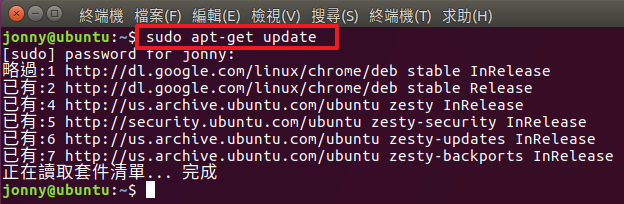
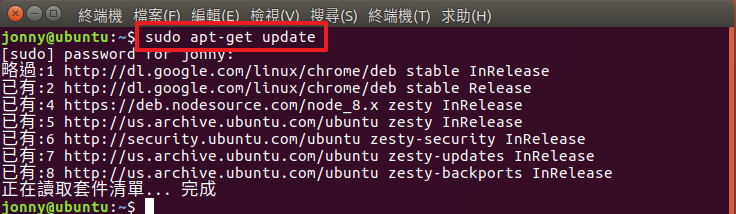
Site updated: 2017-08-29 10:39:51

diff --git a/angular/training/00_development_environment_ubuntu/index.html b/angular/training/00_development_environment_ubuntu/index.html
@@ -93,20 +93,38 @@
 
 
 
-<meta name="description" content="[Windows 版] [Ubuntu 版] [Mac 版]  安裝步驟:Node.js 6.9.x &amp;amp; npm 3.x.x 以上版本可以至 Node.js 官方網站下載安裝並安裝    (目前最新版本為8.4.0)">
+<meta name="description" content="[Windows 版] [Ubuntu 版] [Mac 版]  安裝步驟: 安裝前建議先更新 Ubuntu，可以透過 sudo apt-get update 下載套件清單與 sudo apt-get dist-upgrade 執行更新  Node.js 6.9.x &amp;amp; npm 3.x.x 以上版本開啟 Node.js 官方網站說明可以看到安裝指令，開啟終端機執行指令：curl -sL ht">
 <meta name="keywords" content="Angular">
 <meta property="og:type" content="article">
 <meta property="og:title" content="開發環境(Ubuntu 版)？">
 <meta property="og:url" content="https://jonny-huang.github.io/angular/training/00_development_environment_ubuntu/index.html">
 <meta property="og:site_name" content="Jonny Huang 的學習筆記">
-<meta property="og:description" content="[Windows 版] [Ubuntu 版] [Mac 版]  安裝步驟:Node.js 6.9.x &amp;amp; npm 3.x.x 以上版本可以至 Node.js 官方網站下載安裝並安裝    (目前最新版本為8.4.0)">
+<meta property="og:description" content="[Windows 版] [Ubuntu 版] [Mac 版]  安裝步驟: 安裝前建議先更新 Ubuntu，可以透過 sudo apt-get update 下載套件清單與 sudo apt-get dist-upgrade 執行更新  Node.js 6.9.x &amp;amp; npm 3.x.x 以上版本開啟 Node.js 官方網站說明可以看到安裝指令，開啟終端機執行指令：curl -sL ht">
 <meta property="og:locale" content="zh-tw">
-<meta property="og:image" content="https://jonny-huang.github.io/images/angular_windows_nodejs_01.png">
-<meta property="og:updated_time" content="2017-08-28T08:09:13.418Z">
+<meta property="og:image" content="https://jonny-huang.github.io/images/angular_ubuntu_nodejs_01.png">
+<meta property="og:image" content="https://jonny-huang.github.io/images/angular_ubuntu_nodejs_02.png">
+<meta property="og:image" content="https://jonny-huang.github.io/images/angular_ubuntu_nodejs_03.png">
+<meta property="og:image" content="https://jonny-huang.github.io/images/angular_ubuntu_nodejs_04.png">
+<meta property="og:image" content="https://jonny-huang.github.io/images/angular_ubuntu_nodejs_05.png">
+<meta property="og:image" content="https://jonny-huang.github.io/images/angular_ubuntu_nodejs_06.png">
+<meta property="og:image" content="https://jonny-huang.github.io/images/angular_ubuntu_nodejs_07.png">
+<meta property="og:image" content="https://jonny-huang.github.io/images/angular_ubuntu_nodejs_08.png">
+<meta property="og:image" content="https://jonny-huang.github.io/images/angular_ubuntu_nodejs_09.png">
+<meta property="og:image" content="https://jonny-huang.github.io/images/angular_ubuntu_angular-cli_01.png">
+<meta property="og:image" content="https://jonny-huang.github.io/images/angular_ubuntu_angular-cli_02.png">
+<meta property="og:image" content="https://jonny-huang.github.io/images/angular_windows_vscode_11.png">
+<meta property="og:image" content="https://jonny-huang.github.io/images/angular_ubuntu_vscode_01.png">
+<meta property="og:image" content="https://jonny-huang.github.io/images/angular_ubuntu_vscode_02.png">
+<meta property="og:image" content="https://jonny-huang.github.io/images/angular_ubuntu_vscode_03.png">
+<meta property="og:image" content="https://jonny-huang.github.io/images/angular_ubuntu_vscode_04.png">
+<meta property="og:image" content="https://jonny-huang.github.io/images/angular_ubuntu_vscode_05.png">
+<meta property="og:image" content="https://jonny-huang.github.io/images/angular_ubuntu_vscode_06.png">
+<meta property="og:image" content="https://jonny-huang.github.io/images/angular_ubuntu_vscode_07.png">
+<meta property="og:updated_time" content="2017-08-29T02:25:33.568Z">
 <meta name="twitter:card" content="summary">
 <meta name="twitter:title" content="開發環境(Ubuntu 版)？">
-<meta name="twitter:description" content="[Windows 版] [Ubuntu 版] [Mac 版]  安裝步驟:Node.js 6.9.x &amp;amp; npm 3.x.x 以上版本可以至 Node.js 官方網站下載安裝並安裝    (目前最新版本為8.4.0)">
-<meta name="twitter:image" content="https://jonny-huang.github.io/images/angular_windows_nodejs_01.png">
+<meta name="twitter:description" content="[Windows 版] [Ubuntu 版] [Mac 版]  安裝步驟: 安裝前建議先更新 Ubuntu，可以透過 sudo apt-get update 下載套件清單與 sudo apt-get dist-upgrade 執行更新  Node.js 6.9.x &amp;amp; npm 3.x.x 以上版本開啟 Node.js 官方網站說明可以看到安裝指令，開啟終端機執行指令：curl -sL ht">
+<meta name="twitter:image" content="https://jonny-huang.github.io/images/angular_ubuntu_nodejs_01.png">
 
 
 
@@ -323,8 +341,26 @@
       
 
       
-        <h2 id="Windows-版-Ubuntu-版-Mac-版"><a href="#Windows-版-Ubuntu-版-Mac-版" class="headerlink" title="[Windows 版] [Ubuntu 版] [Mac 版]  "></a>[<a href="/angular/training/00_development_environment_windows/">Windows 版</a>] [Ubuntu 版] [Mac 版]  </h2><h1 id="安裝步驟"><a href="#安裝步驟" class="headerlink" title="安裝步驟:"></a>安裝步驟:</h1><h2 id="Node-js-6-9-x-amp-npm-3-x-x-以上版本"><a href="#Node-js-6-9-x-amp-npm-3-x-x-以上版本" class="headerlink" title="Node.js 6.9.x &amp; npm 3.x.x 以上版本"></a>Node.js 6.9.x &amp; npm 3.x.x 以上版本</h2><p>可以至 <a href="https://nodejs.org/" target="_blank" rel="external">Node.js 官方網站</a>下載安裝並安裝<br> <img src="/images/angular_windows_nodejs_01.png" alt="Node.js 版本">  </p>
-<h6 id="目前最新版本為8-4-0"><a href="#目前最新版本為8-4-0" class="headerlink" title="(目前最新版本為8.4.0)"></a>(目前最新版本為8.4.0)</h6>
+        <h2 id="Windows-版-Ubuntu-版-Mac-版"><a href="#Windows-版-Ubuntu-版-Mac-版" class="headerlink" title="[Windows 版] [Ubuntu 版] [Mac 版]  "></a>[<a href="/angular/training/00_development_environment_windows/">Windows 版</a>] [Ubuntu 版] [Mac 版]  </h2><h1 id="安裝步驟"><a href="#安裝步驟" class="headerlink" title="安裝步驟:"></a>安裝步驟:</h1><blockquote>
+<p>安裝前建議先更新 Ubuntu，可以透過 <code>sudo apt-get update</code> 下載套件清單與 <code>sudo apt-get dist-upgrade</code> 執行更新<br><img src="/images/angular_ubuntu_nodejs_01.png" alt=""><br><img src="/images/angular_ubuntu_nodejs_02.png" alt=""></p>
+</blockquote>
+<h2 id="Node-js-6-9-x-amp-npm-3-x-x-以上版本"><a href="#Node-js-6-9-x-amp-npm-3-x-x-以上版本" class="headerlink" title="Node.js 6.9.x &amp; npm 3.x.x 以上版本"></a>Node.js 6.9.x &amp; npm 3.x.x 以上版本</h2><p>開啟 <a href="https://nodejs.org/en/download/package-manager/#debian-and-ubuntu-based-linux-distributions" target="_blank" rel="external">Node.js 官方網站</a>說明可以看到安裝指令，開啟<strong>終端機</strong>執行指令：<br><img src="/images/angular_ubuntu_nodejs_03.png" alt=""><br><code>curl -sL https://deb.nodesource.com/setup_8.x | sudo -E bash -</code>  </p>
+<blockquote>
+<p><code>setup_8.x</code>：表示8.x版本，<br>若未安裝 curl 可透過 <code>sudo apt-get install curl</code> 安裝。<br><img src="/images/angular_ubuntu_nodejs_04.png" alt=""></p>
+</blockquote>
+<p><img src="/images/angular_ubuntu_nodejs_05.png" alt=""><br><img src="/images/angular_ubuntu_nodejs_06.png" alt=""><br>最後特別說明要以 root 身分執行安裝，透過 <code>su</code> 指令切換成 root，並透過安裝指令安裝 Node.js。<br><code>sudo apt-get install -y nodejs</code><br><img src="/images/angular_ubuntu_nodejs_07.png" alt="">  </p>
+<blockquote>
+<p>若未設定過 root 的密碼，可透過 <code>sudo passwd</code> 設定。<br><img src="/images/angular_ubuntu_nodejs_08.png" alt=""></p>
+</blockquote>
+<p>可以透過 <code>node -v</code> 及 <code>npm -v</code> 指令確認是 Node.js 與 npm 否安裝成功以及目前安裝版本(目前 Node.js 使用版本為8.4.0，npm 為5.3.0版)<br><img src="/images/angular_ubuntu_nodejs_09.png" alt="">  </p>
+<h2 id="安裝-Angular-CLI"><a href="#安裝-Angular-CLI" class="headerlink" title="安裝 Angular CLI"></a>安裝 Angular CLI</h2><p>以 <strong>root 身分</strong>安裝<strong>Angular CLI</strong>，指令如下：<br><code>npm install -g @angular/cli</code>  </p>
+<blockquote>
+<p><code>insatll</code> 為安裝參數，可以縮寫為 <code>i</code>，<br>反安裝時可以改用 <code>uninstall</code> 參數。<br><code>-g</code> 表示所安裝的套件(package)會安裝在全域(global)內。</p>
+</blockquote>
+<p><img src="/images/angular_ubuntu_angular-cli_01.png" alt=""><br>透過 <code>ng -v</code> 指令確認是否安裝成功以及目前安裝版本(目前cli使用版本為1.3.2)<br><img src="/images/angular_ubuntu_angular-cli_02.png" alt="">  </p>
+<h2 id="安裝IDE工具-簡稱：VS-Code"><a href="#安裝IDE工具-簡稱：VS-Code" class="headerlink" title="安裝IDE工具 (簡稱：VS Code)"></a>安裝IDE工具 (簡稱：VS Code)</h2><p>下列是官方所推薦的IDE工具：<a href="https://angular.io/resources" target="_blank" rel="external">https://angular.io/resources</a><br><img src="/images/angular_windows_vscode_11.png" alt=""><br>至 <a href="https://code.visualstudio.com/" target="_blank" rel="external">VS Code 官方網站</a>下載安裝檔<br><img src="/images/angular_ubuntu_vscode_01.png" alt=""><br>至透過<strong>軟體安裝</strong>執行安裝。<br><img src="/images/angular_ubuntu_vscode_02.png" alt=""><br><img src="/images/angular_ubuntu_vscode_03.png" alt=""><br>輸入使用者密碼再點選核對身分。<br><img src="/images/angular_ubuntu_vscode_04.png" alt=""><br>安裝完成後原本的安裝按鈕會變成移除安紐。<br><img src="/images/angular_ubuntu_vscode_05.png" alt=""><br>點選功能選單的<strong>搜尋你的電腦</strong>，輸入關鍵字即可看到 Visual Studio Code，點選圖示即可開啟。<br><img src="/images/angular_ubuntu_vscode_06.png" alt=""><br>可以開啟 VS Code 圖示的功能選單，將其<strong>鎖定至啟動欄</strong>方便日後執行。<br><img src="/images/angular_ubuntu_vscode_07.png" alt="">  </p>
+<h2 id="安裝擴充功能"><a href="#安裝擴充功能" class="headerlink" title="安裝擴充功能"></a>安裝擴充功能</h2><p>請參閱 <a href="/angular/training/00_development_environment_windows/">Windows 版本</a>  </p>
+
       
     </div>
 
@@ -510,7 +546,7 @@
             
 
             
-              <div class="post-toc-content"><ol class="nav"><li class="nav-item nav-level-2"><a class="nav-link" href="#Windows-版-Ubuntu-版-Mac-版"><span class="nav-number">1.</span> <span class="nav-text">[Windows 版] [Ubuntu 版] [Mac 版]  </span></a></li></ol></li><li class="nav-item nav-level-1"><a class="nav-link" href="#安裝步驟"><span class="nav-number"></span> <span class="nav-text">安裝步驟:</span></a><ol class="nav-child"><li class="nav-item nav-level-2"><a class="nav-link" href="#Node-js-6-9-x-amp-npm-3-x-x-以上版本"><span class="nav-number">1.</span> <span class="nav-text">Node.js 6.9.x & npm 3.x.x 以上版本</span></a><ol class="nav-child"><li class="nav-item nav-level-6"><a class="nav-link" href="#目前最新版本為8-4-0"><span class="nav-number">1.0.0.0.1.</span> <span class="nav-text">(目前最新版本為8.4.0)</span></a></li></ol></li></ol></li></ol></li></ol></li></ol></div>
+              <div class="post-toc-content"><ol class="nav"><li class="nav-item nav-level-2"><a class="nav-link" href="#Windows-版-Ubuntu-版-Mac-版"><span class="nav-number">1.</span> <span class="nav-text">[Windows 版] [Ubuntu 版] [Mac 版]  </span></a></li></ol></li><li class="nav-item nav-level-1"><a class="nav-link" href="#安裝步驟"><span class="nav-number"></span> <span class="nav-text">安裝步驟:</span></a><ol class="nav-child"><li class="nav-item nav-level-2"><a class="nav-link" href="#Node-js-6-9-x-amp-npm-3-x-x-以上版本"><span class="nav-number">1.</span> <span class="nav-text">Node.js 6.9.x & npm 3.x.x 以上版本</span></a></li><li class="nav-item nav-level-2"><a class="nav-link" href="#安裝-Angular-CLI"><span class="nav-number">2.</span> <span class="nav-text">安裝 Angular CLI</span></a></li><li class="nav-item nav-level-2"><a class="nav-link" href="#安裝IDE工具-簡稱：VS-Code"><span class="nav-number">3.</span> <span class="nav-text">安裝IDE工具 (簡稱：VS Code)</span></a></li><li class="nav-item nav-level-2"><a class="nav-link" href="#安裝擴充功能"><span class="nav-number">4.</span> <span class="nav-text">安裝擴充功能</span></a></li></ol></div>
             
 
           </div>

diff --git a/index.html b/index.html
@@ -347,11 +347,17 @@
 </blockquote>
 <p>可以發現 Angular 由4.2.4版升級至4.3.6版。<br><img src="/images/angular_first_app_09.png" alt=""><br>devDependencies 表示開發環境所需的 package。<br><img src="/images/angular_first_app_10.png" alt=""><br>同理透過指令升級<br><code>npm i @angular/animations @angular/common @angular/compiler @angular/core @angular/forms @angular/http @angular/platform-browser @angular/platform-browser-dynamic @angular/router core-js rxjs zone.js</code><br><img src="/images/angular_first_app_11.png" alt=""><br><img src="/images/angular_first_app_12.png" alt="">  </p>
 <h3 id="angular-cli-json"><a href="#angular-cli-json" class="headerlink" title=".angular-cli.json"></a>.angular-cli.json</h3><p><strong>.angular-cli.json</strong> 為 Angular-CLI 的設定檔，例如建置專案時所帶的 <code>--style scss</code> 參數，也可以透過修改 styleExt 值方式手動變更。<br><img src="/images/angular_first_app_13.png" alt="">  </p>
-<h3 id="src"><a href="#src" class="headerlink" title="src"></a>src</h3><p>src 為專案程式碼放置區  </p>
+<h3 id="src"><a href="#src" class="headerlink" title="src"></a>src</h3><p>src 為專案程式碼根目錄。</p>
+<blockquote>
+<p>可以透過 <strong>.angular-cli.json</strong> 修改路徑，但是不建議。<br><img src="/images/angular_first_app_20.png" alt=""></p>
+</blockquote>
 <h3 id="README-md"><a href="#README-md" class="headerlink" title="README.md"></a>README.md</h3><p>說明檔已經內附基本操作，如：  </p>
 <h4 id="Development-server"><a href="#Development-server" class="headerlink" title="Development server"></a>Development server</h4><p>透過 <code>ng serve</code> 指令可以執行開發用的測試服務器，並可透過 <a href="http://localhost:4200/" target="_blank" rel="external">http://localhost:4200/</a> 網址來測試，並透過 <code>Ctrl + c</code> 來終止服務。<br><img src="/images/angular_first_app_14.png" alt=""><br><img src="/images/angular_first_app_15.png" alt=""><br><img src="/images/angular_first_app_16.png" alt="">  </p>
 <h4 id="Code-scaffolding"><a href="#Code-scaffolding" class="headerlink" title="Code scaffolding"></a>Code scaffolding</h4><p>我們可以透過 <code>ng generate</code> 指令來建立開發所需的檔案，CLI 會在建立檔案同時也會包含基本的程式框架。  </p>
 <h4 id="Build"><a href="#Build" class="headerlink" title="Build"></a>Build</h4><p>透過 <code>ng build</code> 指令 CLI 會在專案目錄下建立 dist 資料夾，並將編譯後的網站放置於此，若要將專案佈署至正式環境時，記得改用 <code>ng build -prod</code> 編譯。<br><img src="/images/angular_first_app_17.png" alt=""><br><img src="/images/angular_first_app_18.png" alt=""><br><img src="/images/angular_first_app_19.png" alt="">  </p>
+<blockquote>
+<p>可以透過 <strong>.angular-cli.json</strong> 修改路徑。<br><img src="/images/angular_first_app_21.png" alt=""></p>
+</blockquote>
 <p><img src="/images/download.png" alt=""> <a href="/uploads/first-app_2017-08-28.zip"><strong>first-app_2017-08-28.zip</strong></a>  </p>
 
           
@@ -465,7 +471,7 @@
         
           
             <h2 id="Windows-版-Ubuntu-版-Mac-版"><a href="#Windows-版-Ubuntu-版-Mac-版" class="headerlink" title="[Windows 版] [Ubuntu 版] [Mac 版]  "></a>[Windows 版] [<a href="/angular/training/00_development_environment_ubuntu/">Ubuntu 版</a>] [Mac 版]  </h2><h1 id="開發環境建置步驟"><a href="#開發環境建置步驟" class="headerlink" title="開發環境建置步驟:"></a>開發環境建置步驟:</h1><h2 id="安裝-Node-js-6-9-x-amp-npm-3-x-x-以上版本"><a href="#安裝-Node-js-6-9-x-amp-npm-3-x-x-以上版本" class="headerlink" title="安裝 Node.js 6.9.x &amp; npm 3.x.x 以上版本"></a>安裝 Node.js 6.9.x &amp; npm 3.x.x 以上版本</h2><p>可以至 <a href="https://nodejs.org/" target="_blank" rel="external">Node.js 官方網站</a>下載安裝檔<br> <img src="/images/angular_windows_nodejs_01.png" alt="Node.js 版本"><br>(目前最新版本為8.4.0)<br><img src="/images/angular_windows_nodejs_02.png" alt="node-v8.4.0-x64.msi"><br>執行安裝<br><img src="/images/angular_windows_nodejs_03.png" alt=""><br><img src="/images/angular_windows_nodejs_04.png" alt=""><br><img src="/images/angular_windows_nodejs_05.png" alt=""><br><img src="/images/angular_windows_nodejs_06.png" alt=""><br><img src="/images/angular_windows_nodejs_07.png" alt=""><br><img src="/images/angular_windows_nodejs_08.png" alt=""><br><img src="/images/angular_windows_nodejs_09.png" alt="">  </p>
-<p>可以在<strong>命令提示字元</strong>內透過 <code>node -v</code> 指令確認是否安裝成功以及目前安裝版本(目前node使用版本為8.4.0)<br><img src="/images/angular_windows_nodejs_10.png" alt=""><br>透過 <code>npm -v</code> 指令確認目前npm版本(目前npm使用版本為5.3.0)<br><img src="/images/angular_windows_nodejs_11.png" alt=""> </p>
+<p>可以在<strong>命令提示字元</strong>內透過 <code>node -v</code> 指令確認是否安裝成功以及目前安裝版本(目前 Node.js 使用版本為8.4.0)<br><img src="/images/angular_windows_nodejs_10.png" alt=""><br>透過 <code>npm -v</code> 指令確認目前npm版本(目前npm使用版本為5.3.0)<br><img src="/images/angular_windows_nodejs_11.png" alt=""> </p>
 <h2 id="安裝-Angular-CLI"><a href="#安裝-Angular-CLI" class="headerlink" title="安裝 Angular CLI"></a>安裝 Angular CLI</h2><p>利用<strong>命令提示字元</strong>透過npm安裝<strong>Angular CLI</strong>，指令如下：<br><code>npm install -g @angular/cli</code>  </p>
 <blockquote>
 <p><code>insatll</code> 為安裝參數，可以縮寫為 <code>i</code>，<br>反安裝時可以改用 <code>uninstall</code> 參數。<br><code>-g</code> 表示所安裝的套件(package)會安裝在全域(global)內。</p>
@@ -587,8 +593,26 @@
       
         
           
-            <h2 id="Windows-版-Ubuntu-版-Mac-版"><a href="#Windows-版-Ubuntu-版-Mac-版" class="headerlink" title="[Windows 版] [Ubuntu 版] [Mac 版]  "></a>[<a href="/angular/training/00_development_environment_windows/">Windows 版</a>] [Ubuntu 版] [Mac 版]  </h2><h1 id="安裝步驟"><a href="#安裝步驟" class="headerlink" title="安裝步驟:"></a>安裝步驟:</h1><h2 id="Node-js-6-9-x-amp-npm-3-x-x-以上版本"><a href="#Node-js-6-9-x-amp-npm-3-x-x-以上版本" class="headerlink" title="Node.js 6.9.x &amp; npm 3.x.x 以上版本"></a>Node.js 6.9.x &amp; npm 3.x.x 以上版本</h2><p>可以至 <a href="https://nodejs.org/" target="_blank" rel="external">Node.js 官方網站</a>下載安裝並安裝<br> <img src="/images/angular_windows_nodejs_01.png" alt="Node.js 版本">  </p>
-<h6 id="目前最新版本為8-4-0"><a href="#目前最新版本為8-4-0" class="headerlink" title="(目前最新版本為8.4.0)"></a>(目前最新版本為8.4.0)</h6>
+            <h2 id="Windows-版-Ubuntu-版-Mac-版"><a href="#Windows-版-Ubuntu-版-Mac-版" class="headerlink" title="[Windows 版] [Ubuntu 版] [Mac 版]  "></a>[<a href="/angular/training/00_development_environment_windows/">Windows 版</a>] [Ubuntu 版] [Mac 版]  </h2><h1 id="安裝步驟"><a href="#安裝步驟" class="headerlink" title="安裝步驟:"></a>安裝步驟:</h1><blockquote>
+<p>安裝前建議先更新 Ubuntu，可以透過 <code>sudo apt-get update</code> 下載套件清單與 <code>sudo apt-get dist-upgrade</code> 執行更新<br><img src="/images/angular_ubuntu_nodejs_01.png" alt=""><br><img src="/images/angular_ubuntu_nodejs_02.png" alt=""></p>
+</blockquote>
+<h2 id="Node-js-6-9-x-amp-npm-3-x-x-以上版本"><a href="#Node-js-6-9-x-amp-npm-3-x-x-以上版本" class="headerlink" title="Node.js 6.9.x &amp; npm 3.x.x 以上版本"></a>Node.js 6.9.x &amp; npm 3.x.x 以上版本</h2><p>開啟 <a href="https://nodejs.org/en/download/package-manager/#debian-and-ubuntu-based-linux-distributions" target="_blank" rel="external">Node.js 官方網站</a>說明可以看到安裝指令，開啟<strong>終端機</strong>執行指令：<br><img src="/images/angular_ubuntu_nodejs_03.png" alt=""><br><code>curl -sL https://deb.nodesource.com/setup_8.x | sudo -E bash -</code>  </p>
+<blockquote>
+<p><code>setup_8.x</code>：表示8.x版本，<br>若未安裝 curl 可透過 <code>sudo apt-get install curl</code> 安裝。<br><img src="/images/angular_ubuntu_nodejs_04.png" alt=""></p>
+</blockquote>
+<p><img src="/images/angular_ubuntu_nodejs_05.png" alt=""><br><img src="/images/angular_ubuntu_nodejs_06.png" alt=""><br>最後特別說明要以 root 身分執行安裝，透過 <code>su</code> 指令切換成 root，並透過安裝指令安裝 Node.js。<br><code>sudo apt-get install -y nodejs</code><br><img src="/images/angular_ubuntu_nodejs_07.png" alt="">  </p>
+<blockquote>
+<p>若未設定過 root 的密碼，可透過 <code>sudo passwd</code> 設定。<br><img src="/images/angular_ubuntu_nodejs_08.png" alt=""></p>
+</blockquote>
+<p>可以透過 <code>node -v</code> 及 <code>npm -v</code> 指令確認是 Node.js 與 npm 否安裝成功以及目前安裝版本(目前 Node.js 使用版本為8.4.0，npm 為5.3.0版)<br><img src="/images/angular_ubuntu_nodejs_09.png" alt="">  </p>
+<h2 id="安裝-Angular-CLI"><a href="#安裝-Angular-CLI" class="headerlink" title="安裝 Angular CLI"></a>安裝 Angular CLI</h2><p>以 <strong>root 身分</strong>安裝<strong>Angular CLI</strong>，指令如下：<br><code>npm install -g @angular/cli</code>  </p>
+<blockquote>
+<p><code>insatll</code> 為安裝參數，可以縮寫為 <code>i</code>，<br>反安裝時可以改用 <code>uninstall</code> 參數。<br><code>-g</code> 表示所安裝的套件(package)會安裝在全域(global)內。</p>
+</blockquote>
+<p><img src="/images/angular_ubuntu_angular-cli_01.png" alt=""><br>透過 <code>ng -v</code> 指令確認是否安裝成功以及目前安裝版本(目前cli使用版本為1.3.2)<br><img src="/images/angular_ubuntu_angular-cli_02.png" alt="">  </p>
+<h2 id="安裝IDE工具-簡稱：VS-Code"><a href="#安裝IDE工具-簡稱：VS-Code" class="headerlink" title="安裝IDE工具 (簡稱：VS Code)"></a>安裝IDE工具 (簡稱：VS Code)</h2><p>下列是官方所推薦的IDE工具：<a href="https://angular.io/resources" target="_blank" rel="external">https://angular.io/resources</a><br><img src="/images/angular_windows_vscode_11.png" alt=""><br>至 <a href="https://code.visualstudio.com/" target="_blank" rel="external">VS Code 官方網站</a>下載安裝檔<br><img src="/images/angular_ubuntu_vscode_01.png" alt=""><br>至透過<strong>軟體安裝</strong>執行安裝。<br><img src="/images/angular_ubuntu_vscode_02.png" alt=""><br><img src="/images/angular_ubuntu_vscode_03.png" alt=""><br>輸入使用者密碼再點選核對身分。<br><img src="/images/angular_ubuntu_vscode_04.png" alt=""><br>安裝完成後原本的安裝按鈕會變成移除安紐。<br><img src="/images/angular_ubuntu_vscode_05.png" alt=""><br>點選功能選單的<strong>搜尋你的電腦</strong>，輸入關鍵字即可看到 Visual Studio Code，點選圖示即可開啟。<br><img src="/images/angular_ubuntu_vscode_06.png" alt=""><br>可以開啟 VS Code 圖示的功能選單，將其<strong>鎖定至啟動欄</strong>方便日後執行。<br><img src="/images/angular_ubuntu_vscode_07.png" alt="">  </p>
+<h2 id="安裝擴充功能"><a href="#安裝擴充功能" class="headerlink" title="安裝擴充功能"></a>安裝擴充功能</h2><p>請參閱 <a href="/angular/training/00_development_environment_windows/">Windows 版本</a>  </p>
+
           
         
       

diff --git a/angular/training/00_development_environment_windows/index.html b/angular/training/00_development_environment_windows/index.html
@@ -93,13 +93,13 @@
 
 
 
-<meta name="description" content="[Windows 版] [Ubuntu 版] [Mac 版]  開發環境建置步驟:安裝 Node.js 6.9.x &amp;amp; npm 3.x.x 以上版本可以至 Node.js 官方網站下載安裝檔 (目前最新版本為8.4.0)執行安裝   可以在命令提示字元內透過 node -v 指令確認是否安裝成功以及目前安裝版本(目前node使用版本為8.4.0)透過 npm -v 指令確認目前npm版本(">
+<meta name="description" content="[Windows 版] [Ubuntu 版] [Mac 版]  開發環境建置步驟:安裝 Node.js 6.9.x &amp;amp; npm 3.x.x 以上版本可以至 Node.js 官方網站下載安裝檔 (目前最新版本為8.4.0)執行安裝   可以在命令提示字元內透過 node -v 指令確認是否安裝成功以及目前安裝版本(目前 Node.js 使用版本為8.4.0)透過 npm -v 指令確認目前n">
 <meta name="keywords" content="Angular">
 <meta property="og:type" content="article">
 <meta property="og:title" content="開發環境(Windows 版)？">
 <meta property="og:url" content="https://jonny-huang.github.io/angular/training/00_development_environment_windows/index.html">
 <meta property="og:site_name" content="Jonny Huang 的學習筆記">
-<meta property="og:description" content="[Windows 版] [Ubuntu 版] [Mac 版]  開發環境建置步驟:安裝 Node.js 6.9.x &amp;amp; npm 3.x.x 以上版本可以至 Node.js 官方網站下載安裝檔 (目前最新版本為8.4.0)執行安裝   可以在命令提示字元內透過 node -v 指令確認是否安裝成功以及目前安裝版本(目前node使用版本為8.4.0)透過 npm -v 指令確認目前npm版本(">
+<meta property="og:description" content="[Windows 版] [Ubuntu 版] [Mac 版]  開發環境建置步驟:安裝 Node.js 6.9.x &amp;amp; npm 3.x.x 以上版本可以至 Node.js 官方網站下載安裝檔 (目前最新版本為8.4.0)執行安裝   可以在命令提示字元內透過 node -v 指令確認是否安裝成功以及目前安裝版本(目前 Node.js 使用版本為8.4.0)透過 npm -v 指令確認目前n">
 <meta property="og:locale" content="zh-tw">
 <meta property="og:image" content="https://jonny-huang.github.io/images/angular_windows_nodejs_01.png">
 <meta property="og:image" content="https://jonny-huang.github.io/images/angular_windows_nodejs_02.png">
@@ -145,10 +145,10 @@
 <meta property="og:image" content="https://jonny-huang.github.io/images/angular_windows_vscode_29.png">
 <meta property="og:image" content="https://jonny-huang.github.io/images/angular_windows_vscode_30.png">
 <meta property="og:image" content="https://jonny-huang.github.io/images/angular_windows_vscode_31.png">
-<meta property="og:updated_time" content="2017-08-28T08:09:13.434Z">
+<meta property="og:updated_time" content="2017-08-29T01:32:35.917Z">
 <meta name="twitter:card" content="summary">
 <meta name="twitter:title" content="開發環境(Windows 版)？">
-<meta name="twitter:description" content="[Windows 版] [Ubuntu 版] [Mac 版]  開發環境建置步驟:安裝 Node.js 6.9.x &amp;amp; npm 3.x.x 以上版本可以至 Node.js 官方網站下載安裝檔 (目前最新版本為8.4.0)執行安裝   可以在命令提示字元內透過 node -v 指令確認是否安裝成功以及目前安裝版本(目前node使用版本為8.4.0)透過 npm -v 指令確認目前npm版本(">
+<meta name="twitter:description" content="[Windows 版] [Ubuntu 版] [Mac 版]  開發環境建置步驟:安裝 Node.js 6.9.x &amp;amp; npm 3.x.x 以上版本可以至 Node.js 官方網站下載安裝檔 (目前最新版本為8.4.0)執行安裝   可以在命令提示字元內透過 node -v 指令確認是否安裝成功以及目前安裝版本(目前 Node.js 使用版本為8.4.0)透過 npm -v 指令確認目前n">
 <meta name="twitter:image" content="https://jonny-huang.github.io/images/angular_windows_nodejs_01.png">
 
 
@@ -367,7 +367,7 @@
 
       
         <h2 id="Windows-版-Ubuntu-版-Mac-版"><a href="#Windows-版-Ubuntu-版-Mac-版" class="headerlink" title="[Windows 版] [Ubuntu 版] [Mac 版]  "></a>[Windows 版] [<a href="/angular/training/00_development_environment_ubuntu/">Ubuntu 版</a>] [Mac 版]  </h2><h1 id="開發環境建置步驟"><a href="#開發環境建置步驟" class="headerlink" title="開發環境建置步驟:"></a>開發環境建置步驟:</h1><h2 id="安裝-Node-js-6-9-x-amp-npm-3-x-x-以上版本"><a href="#安裝-Node-js-6-9-x-amp-npm-3-x-x-以上版本" class="headerlink" title="安裝 Node.js 6.9.x &amp; npm 3.x.x 以上版本"></a>安裝 Node.js 6.9.x &amp; npm 3.x.x 以上版本</h2><p>可以至 <a href="https://nodejs.org/" target="_blank" rel="external">Node.js 官方網站</a>下載安裝檔<br> <img src="/images/angular_windows_nodejs_01.png" alt="Node.js 版本"><br>(目前最新版本為8.4.0)<br><img src="/images/angular_windows_nodejs_02.png" alt="node-v8.4.0-x64.msi"><br>執行安裝<br><img src="/images/angular_windows_nodejs_03.png" alt=""><br><img src="/images/angular_windows_nodejs_04.png" alt=""><br><img src="/images/angular_windows_nodejs_05.png" alt=""><br><img src="/images/angular_windows_nodejs_06.png" alt=""><br><img src="/images/angular_windows_nodejs_07.png" alt=""><br><img src="/images/angular_windows_nodejs_08.png" alt=""><br><img src="/images/angular_windows_nodejs_09.png" alt="">  </p>
-<p>可以在<strong>命令提示字元</strong>內透過 <code>node -v</code> 指令確認是否安裝成功以及目前安裝版本(目前node使用版本為8.4.0)<br><img src="/images/angular_windows_nodejs_10.png" alt=""><br>透過 <code>npm -v</code> 指令確認目前npm版本(目前npm使用版本為5.3.0)<br><img src="/images/angular_windows_nodejs_11.png" alt=""> </p>
+<p>可以在<strong>命令提示字元</strong>內透過 <code>node -v</code> 指令確認是否安裝成功以及目前安裝版本(目前 Node.js 使用版本為8.4.0)<br><img src="/images/angular_windows_nodejs_10.png" alt=""><br>透過 <code>npm -v</code> 指令確認目前npm版本(目前npm使用版本為5.3.0)<br><img src="/images/angular_windows_nodejs_11.png" alt=""> </p>
 <h2 id="安裝-Angular-CLI"><a href="#安裝-Angular-CLI" class="headerlink" title="安裝 Angular CLI"></a>安裝 Angular CLI</h2><p>利用<strong>命令提示字元</strong>透過npm安裝<strong>Angular CLI</strong>，指令如下：<br><code>npm install -g @angular/cli</code>  </p>
 <blockquote>
 <p><code>insatll</code> 為安裝參數，可以縮寫為 <code>i</code>，<br>反安裝時可以改用 <code>uninstall</code> 參數。<br><code>-g</code> 表示所安裝的套件(package)會安裝在全域(global)內。</p>

diff --git a/angular/training/01_creating_first_project/index.html b/angular/training/01_creating_first_project/index.html
@@ -114,14 +114,16 @@
 <meta property="og:image" content="https://jonny-huang.github.io/images/angular_first_app_11.png">
 <meta property="og:image" content="https://jonny-huang.github.io/images/angular_first_app_12.png">
 <meta property="og:image" content="https://jonny-huang.github.io/images/angular_first_app_13.png">
+<meta property="og:image" content="https://jonny-huang.github.io/images/angular_first_app_20.png">
 <meta property="og:image" content="https://jonny-huang.github.io/images/angular_first_app_14.png">
 <meta property="og:image" content="https://jonny-huang.github.io/images/angular_first_app_15.png">
 <meta property="og:image" content="https://jonny-huang.github.io/images/angular_first_app_16.png">
 <meta property="og:image" content="https://jonny-huang.github.io/images/angular_first_app_17.png">
 <meta property="og:image" content="https://jonny-huang.github.io/images/angular_first_app_18.png">
 <meta property="og:image" content="https://jonny-huang.github.io/images/angular_first_app_19.png">
+<meta property="og:image" content="https://jonny-huang.github.io/images/angular_first_app_21.png">
 <meta property="og:image" content="https://jonny-huang.github.io/images/download.png">
-<meta property="og:updated_time" content="2017-08-28T09:29:17.381Z">
+<meta property="og:updated_time" content="2017-08-28T09:55:57.587Z">
 <meta name="twitter:card" content="summary">
 <meta name="twitter:title" content="建立Angular專案">
 <meta name="twitter:description" content="建立Angular專案建立專案透過 Angular-CLI 指令 ng new [name] 來建立新專案，例如建立一個first-app專案，透過ng new first-app --routing --style scss    筆者使用 cmder 替代命令提示字元，指令會在獨立的一行，會比較容易觀看。    --routing：參數表示同步建立路由模組，後續再另行說明。--style sc">
@@ -367,11 +369,17 @@
 </blockquote>
 <p>可以發現 Angular 由4.2.4版升級至4.3.6版。<br><img src="/images/angular_first_app_09.png" alt=""><br>devDependencies 表示開發環境所需的 package。<br><img src="/images/angular_first_app_10.png" alt=""><br>同理透過指令升級<br><code>npm i @angular/animations @angular/common @angular/compiler @angular/core @angular/forms @angular/http @angular/platform-browser @angular/platform-browser-dynamic @angular/router core-js rxjs zone.js</code><br><img src="/images/angular_first_app_11.png" alt=""><br><img src="/images/angular_first_app_12.png" alt="">  </p>
 <h3 id="angular-cli-json"><a href="#angular-cli-json" class="headerlink" title=".angular-cli.json"></a>.angular-cli.json</h3><p><strong>.angular-cli.json</strong> 為 Angular-CLI 的設定檔，例如建置專案時所帶的 <code>--style scss</code> 參數，也可以透過修改 styleExt 值方式手動變更。<br><img src="/images/angular_first_app_13.png" alt="">  </p>
-<h3 id="src"><a href="#src" class="headerlink" title="src"></a>src</h3><p>src 為專案程式碼放置區  </p>
+<h3 id="src"><a href="#src" class="headerlink" title="src"></a>src</h3><p>src 為專案程式碼根目錄。</p>
+<blockquote>
+<p>可以透過 <strong>.angular-cli.json</strong> 修改路徑，但是不建議。<br><img src="/images/angular_first_app_20.png" alt=""></p>
+</blockquote>
 <h3 id="README-md"><a href="#README-md" class="headerlink" title="README.md"></a>README.md</h3><p>說明檔已經內附基本操作，如：  </p>
 <h4 id="Development-server"><a href="#Development-server" class="headerlink" title="Development server"></a>Development server</h4><p>透過 <code>ng serve</code> 指令可以執行開發用的測試服務器，並可透過 <a href="http://localhost:4200/" target="_blank" rel="external">http://localhost:4200/</a> 網址來測試，並透過 <code>Ctrl + c</code> 來終止服務。<br><img src="/images/angular_first_app_14.png" alt=""><br><img src="/images/angular_first_app_15.png" alt=""><br><img src="/images/angular_first_app_16.png" alt="">  </p>
 <h4 id="Code-scaffolding"><a href="#Code-scaffolding" class="headerlink" title="Code scaffolding"></a>Code scaffolding</h4><p>我們可以透過 <code>ng generate</code> 指令來建立開發所需的檔案，CLI 會在建立檔案同時也會包含基本的程式框架。  </p>
 <h4 id="Build"><a href="#Build" class="headerlink" title="Build"></a>Build</h4><p>透過 <code>ng build</code> 指令 CLI 會在專案目錄下建立 dist 資料夾，並將編譯後的網站放置於此，若要將專案佈署至正式環境時，記得改用 <code>ng build -prod</code> 編譯。<br><img src="/images/angular_first_app_17.png" alt=""><br><img src="/images/angular_first_app_18.png" alt=""><br><img src="/images/angular_first_app_19.png" alt="">  </p>
+<blockquote>
+<p>可以透過 <strong>.angular-cli.json</strong> 修改路徑。<br><img src="/images/angular_first_app_21.png" alt=""></p>
+</blockquote>
 <p><img src="/images/download.png" alt=""> <a href="/uploads/first-app_2017-08-28.zip"><strong>first-app_2017-08-28.zip</strong></a>  </p>
 
       
